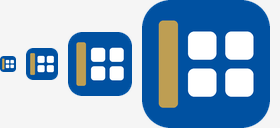
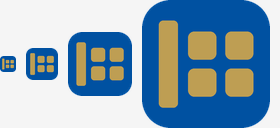
Goldene Kacheln: das Zeichen der Vorschaltseite
Die zwoelf Portale bekommen dieselbe Form mit weissen Kacheln. Der eine
Unterschied gehoert der Seite, auf der alle Hubs zusammenstehen.

diff --git a/scripts/icon_bauen.py b/scripts/icon_bauen.py
@@ -30,7 +30,12 @@ KANTE = 512
 
 
 def zeichen(groesse: int = KANTE) -> Image.Image:
-    """Dieselben Formen wie in logo/hub-icon.svg, auf 512 gerechnet."""
+    """Dieselben Formen wie in logo/hub-icon.svg, auf 512 gerechnet.
+
+    Kacheln in Gold - das Zeichen der Vorschaltseite. Die zwoelf Portale
+    tragen dieselbe Form mit weissen Kacheln; ihre Fassung liegt in der
+    Portal-Vorlage.
+    """
     m = groesse / 512
     b = Image.new("RGBA", (groesse, groesse), (0, 0, 0, 0))
     d = ImageDraw.Draw(b)
@@ -40,7 +45,7 @@ def zeichen(groesse: int = KANTE) -> Image.Image:
     for x in (184.3, 332.7):
         for y in (125.5, 273.9):
             d.rounded_rectangle([x * m, y * m, (x + 112.6) * m, (y + 112.6) * m],
-                                radius=24.8 * m, fill=WEISS)
+                                radius=24.8 * m, fill=GOLD)
     return b
 
 
